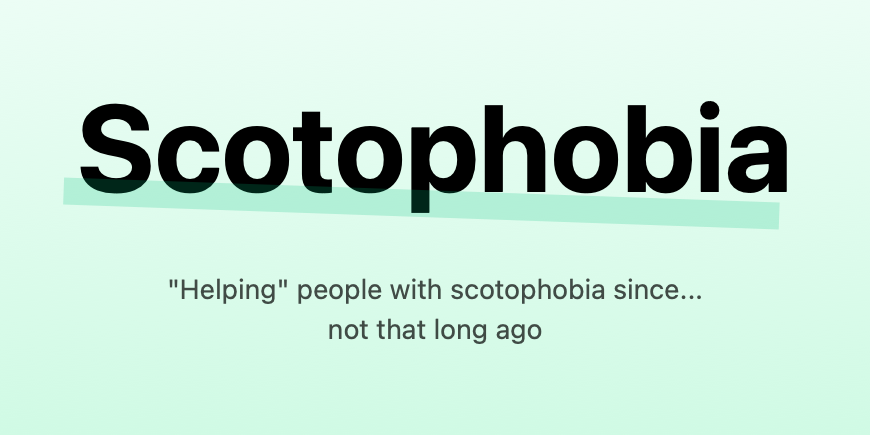
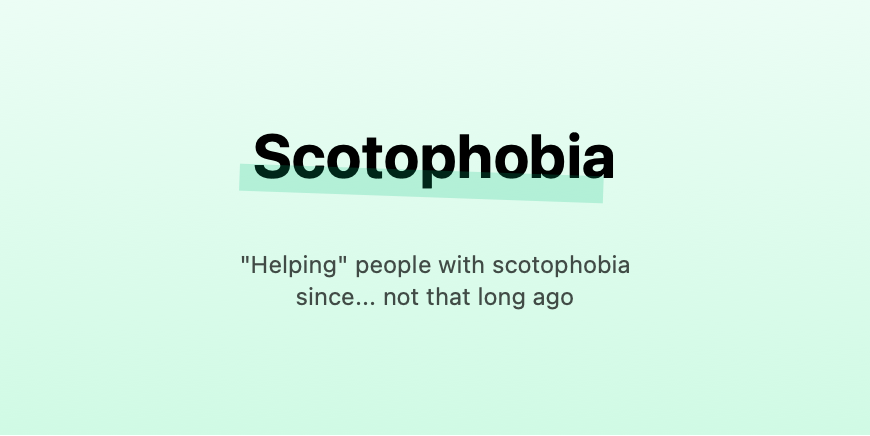
Update the cover image

Changed region(s): [[0.0621, 0.2087, 0.931, 0.5367], [0.1862, 0.5665, 0.8069, 0.805]]

diff --git a/src/components/Cover.tsx b/src/components/Cover.tsx
@@ -1,10 +1,12 @@
 function Cover() {
     return (
-      <div className="w-[512px] h-[256px] bg-gradient-to-b from-emerald-50 to-emerald-100 flex flex-col items-center justify-center gap-5 m-5">
-        <h1 className="text-7xl font-bold mb-4 title">Scotophobia</h1>
-        <span className="opacity-70 max-w-2/3 text-center text-lg.">
+      <div className="w-[512px] relative h-[256px] bg-gradient-to-b from-emerald-50 to-emerald-100 flex flex-col items-center justify-center gap-5 m-5">
+        <h1 className="text-4xl font-bold mb-4 title">Scotophobia</h1>
+        <span className="opacity-70 max-w-1/2 text-center text-sm">
           "Helping" people with scotophobia since... not that long ago
         </span>
+
+        <div className="absolute h-64 w-64 border-2 border-black hidden" />
       </div>
     );
 }
